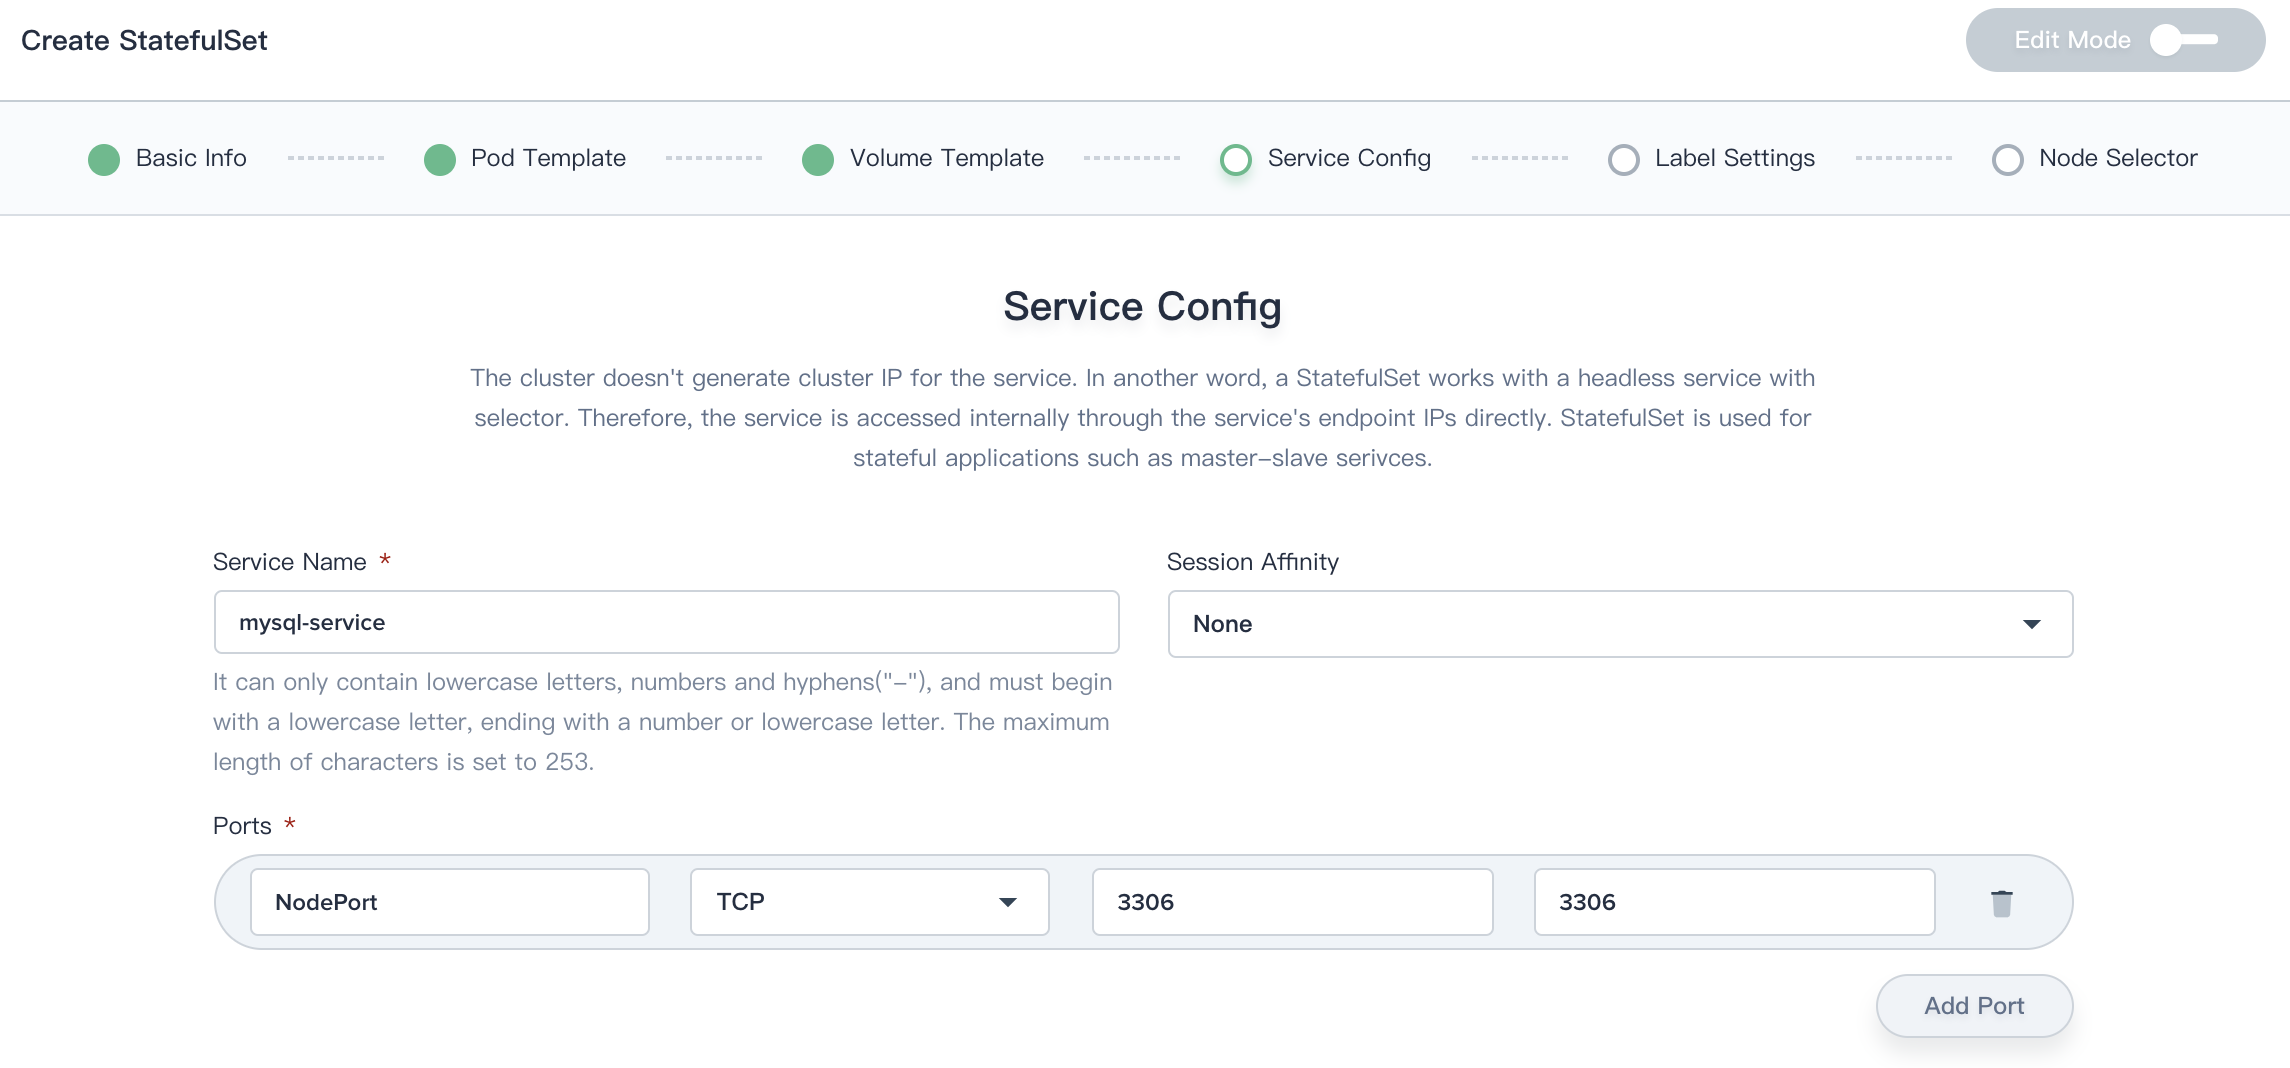
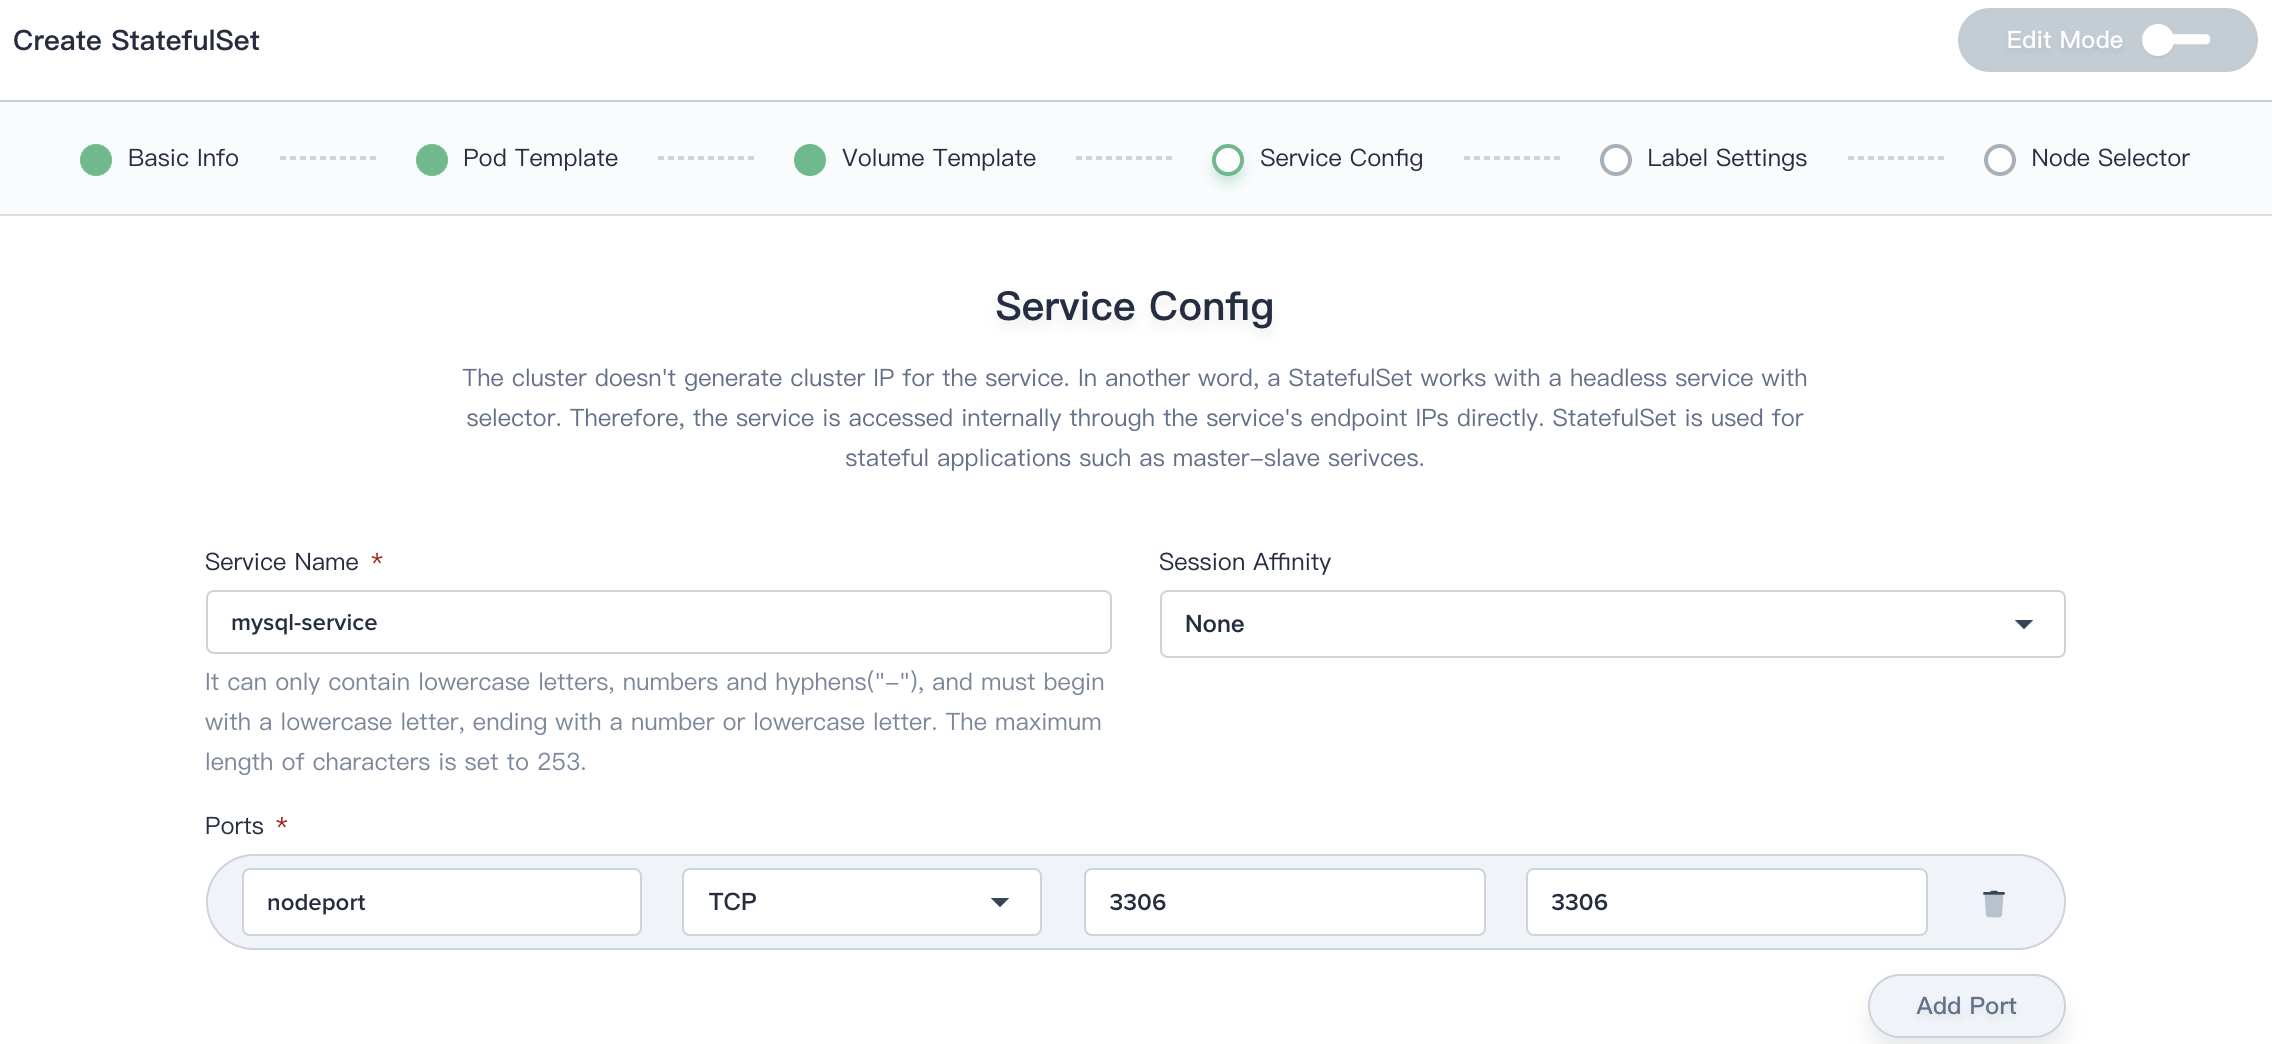
update quick start for English version

diff --git a/content/advanced-v1.0.0/en/quick-start/job-quick-start.md b/content/advanced-v1.0.0/en/quick-start/job-quick-start.md
@@ -1,0 +1,103 @@
+---
+title: "示例三 - 创建简单任务"
+---
+
+## 目的
+
+本文档以创建一个并行任务去执行简单的命令计算并输出圆周率到小数点后 2000 位作为示例，说明任务的基本功能。
+
+## 前提条件
+
+已创建了企业空间和项目，若还未创建请参考 [管理员快速入门](../../quick-start/admin-quick-start)。
+
+## 预估时间
+
+约 15 分钟。
+
+## 操作示例
+
+### 示例视频
+
+<video controls="controls" style="width: 100% !important; height: auto !important;">
+  <source type="video/mp4" src="https://kubesphere-docsvideo.gd2.qingstor.com/demo3-job.mp4">
+</video>
+
+### 创建任务
+
+登录 KubeSphere 控制台，在所属项目的左侧菜单栏，选择 **工作负载 → 任务**，进入任务列表页面。
+
+![创建任务](/demo3-create-job.png)
+
+#### 第一步：填写基本信息
+
+点击 **创建任务**，填写任务的基本信息，完成后点击 **下一步**。
+
+基本信息页中，需要填写任务的名称和描述信息。
+
+- 名称：为创建的任务起一个简洁明了的名称，便于用户浏览和搜索。
+- 别名：别名可以由任意字符组成，帮助您更好的区分资源，并支持中文名称。
+- 描述：简单介绍应用仓库的任务，让用户进一步了解该任务。
+
+![填写基本信息](/ae-demo-job1.png)
+
+#### 第二步：任务设置
+
+任务设置页中，通过设置 Job Spec 的四个配置参数来设置 Job 的任务类型，完成后点击 **下一步**。
+
+- Back Off Limit：默认为 6，失败尝试次数，若失败次数超过该值，则 Job 不会继续尝试工作；如此处设置为 5 则表示最多重试 5 次。
+- Completions：默认为 1，标志任务结束需要成功运行的 Pod 个数，如此处设置为 4 则表示任务结束需要运行 4 个 Pod。
+- Parallelism：默认为 1，标志并行运行的 Pod 的个数；如此处设置为 2 则表示并行 2 个 Pod。
+- Active Deadline Seconds：指定 Job 可运行的时间期限，超过时间还未结束，系统将会尝试进行终止，且 ActiveDeadlineSeconds 优先级高于 Back Off Limit；如此处设置 100 则表示超过 100s 后 Job 中的所有 Pod 运行将被终止。
+
+![任务设置](/demo-job-setting.png)
+
+#### 第三步：配置任务模板
+
+任务模板即设置 Pod 模板，其中 [RestartPolicy](https://kubernetes.io/docs/concepts/workloads/pods/pod-lifecycle/#restart-policy) 指通过同一节点上的 kubelet 重新启动容器，仅支持 Never 或 OnFailure，此处 RestartPolicy 选择 **Never**。
+
+> 说明：
+> RestartPolicy 表示当任务未完成的情况下：
+> - Never：任务会在容器组出现故障时创建新的容器组，且故障容器组不会消失。
+> - OnFailure：任务会在容器组出现故障时其内部重启容器，而不是创建新的容器组。
+
+![重启策略](/demo3-job-restartpolicy.png)
+
+下一步点击 **添加容器**，输入容器的名称 `pi` 和对应的镜像名 `perl`。CPU 和内存此处暂不作限定，将使用在创建项目时指定的默认值。
+
+点击 **高级选项**，然后点击 **添加命令**，依次添加如下四行命令，即让每一个 Job 执行输出圆周率小数点后 2000 位。设置完成后点击 **保存**，然后选择 **下一步**。
+
+```bash
+# 命令
+perl
+-Mbignum=bpi
+-wle
+print bpi(2000)
+```
+
+![镜像设置](/job-demo-container.png)
+
+#### 第四步：标签设置
+
+本示例暂不需要设置存储卷，可以跳过此步骤，点击 **下一步** 进入标签设置。标签（Label）用于指定资源对应的一组或者多组标签，便于标识和管理对象，这里的标签设置为 `app : job-demo`，无需设置节点选择器，点击 **创建**，任务创建成功，可在任务列表页查看。
+
+![任务创建成功](/demo3-job-list.png)
+
+### 验证任务结果
+
+1、点击该任务 `job-demo` 查看执行记录，可以看到任务执行的结果状态是 "已完成"，并且一共运行了 4 个 Pod，这是因为在第二步 Completions 设置为 4。
+
+![任务记录](/demo3-job-execution-record.png)
+
+2、在任务详情页的 **资源状态**，可以查看任务执行过程中创建的容器组。由于 Parallelism 设置为 2，因此任务将预先并行地创建 2 个容器组，然后再继续并行创建 2 个容器组，任务结束时将创建 4 个容器组，
+
+![任务详情](/demo3-job-creation-details.png)
+
+3、点击其中一个容器组，比如 `job-demo-5slt4`，查看该容器组中的容器。
+
+![任务容器详情](/demo3-job-container.png)
+
+4、在 **资源状态** 页，进一步点击该容器然后在 **容器日志** 的 Tab 下，查看 pi 容器中命令计算圆周率到小数点后 2000 位的输出结果。另外，可点击左侧的 **终端** 进入容器内部执行命令。
+
+![查看容器日志](/demo3-container-log.png)
+
+至此，您已经熟悉了任务 (Job) 的基本功能使用，关于任务的各项参数释义详见 [任务](../../workload/jobs)。

diff --git a/content/advanced-v1.0.0/en/quick-start/mysql-deployment.md b/content/advanced-v1.0.0/en/quick-start/mysql-deployment.md
@@ -9,8 +9,7 @@ title: "Deploy a MySQL Application"
 
 ## Target 
 
-
-This page contains a Statefulset as an example shows how to deploy MySQL as a stateful application, which used the `Mysql:5.6` image as a backend for the [Wordpress](https://wordpress.org/) website. The MySQL initial password for this example will be created and saved as [Secret](../../configuration/secrets). This example only describes the process without too much explanation. For a detailed explanation of parameters and fields, see [Secrets](../../configuration/secrets) and [StatefulSets](../../workload/statefulsets).
+This page creates a Statefulset as an example shows how to deploy MySQL as a stateful application, which used the `Mysql:5.6` image as a backend for the [Wordpress](https://wordpress.org/) website. The MySQL initial password for this example will be created and saved as [Secret](../../configuration/secrets). This example only describes the process without too much explanation. For a detailed explanation of parameters and fields, see [Secrets](../../configuration/secrets) and [StatefulSets](../../workload/statefulsets).
 
 <!-- ## 前提条件
 
@@ -200,7 +199,7 @@ Fill in the Service Config with the following information:
 
 - Service Name: `mysql-service` (The Service Name defined here will be associated with Wordpress)
 - Ports:
-   - name: NodePort
+   - name: nodeport
    - protocol: TCP
    - port: 3306
    - target port: 3306

diff --git a/content/advanced-v1.0.0/zh-CN/installation/all-in-one.md b/content/advanced-v1.0.0/zh-CN/installation/all-in-one.md
@@ -19,7 +19,7 @@ title: "All-in-One 模式"
 | CentOS 7.5 (64 bit) | CPU：4 核 <br/> 内存：8 G <br/> 系统盘：100 G | CPU：8 核 <br/> 内存：16 G <br/> 系统盘：不小于 100 G |
 | Ubuntu 16.04/18.04 LTS (64 bit) | CPU：4 核 <br/> 内存：8 G <br/> 系统盘：100 G | CPU：8 核 <br/> 内存：16 G <br/> 系统盘：不小于 100 G |
 |Red Hat Enterprise Linux Server 7.4 (64 bit) | CPU：4 核 <br/> 内存：8 G <br/> 系统盘：100 G | CPU：8 核 <br/> 内存：16 G <br/> 系统盘：不小于 100 G |
-|Debian Stretch 9.5 (64 bit)| CPU：4 核 <br/> 内存：8 G <br/> 系统盘：40 G | CPU：8 核 <br/> 内存：16 G <br/> 系统盘：不小于 100 G |
+|Debian Stretch 9.5 (64 bit)| CPU：4 核 <br/> 内存：8 G <br/> 系统盘：100 G | CPU：8 核 <br/> 内存：16 G <br/> 系统盘：不小于 100 G |
 
 
 
